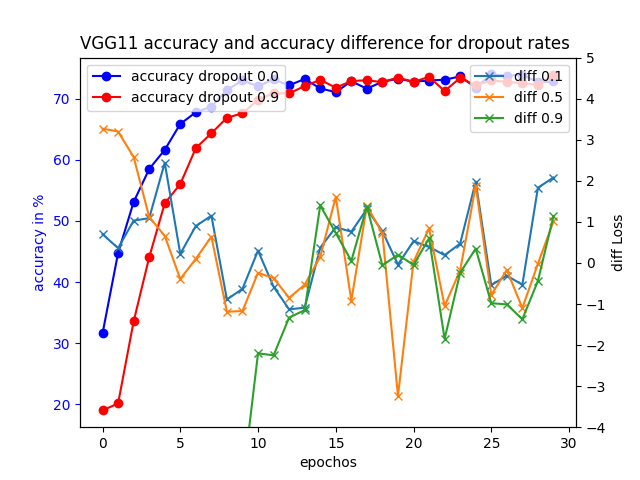
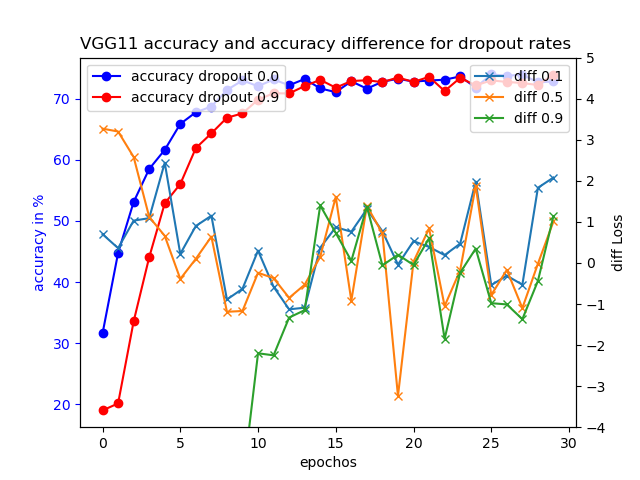
add 4_2 files in 4_1.py

Changed region(s): [[0.125, 0.0625, 0.9062, 0.125], [0.75, 0.9062, 0.7812, 0.9375], [0.5, 0.9062, 0.5312, 0.9375]]

diff --git a/ex04/4_1/plot.py b/ex04/4_1/plot.py
@@ -1,7 +1,9 @@
+from ex4_1 import VGG11
 import json
 import matplotlib.pyplot as plt
 import argparse
 import numpy as np
+import torch
 
 
 def plotdata(data:dict) -> None:
@@ -86,18 +88,17 @@ def plotbar(dataCPU:dict, dataGPU:dict, ) -> None:
     plt.show()
     plt.savefig("4_1_time_comp.png")
 
-
 def plotdropout(data:dict) -> None:
     # Create the main plot
     fig, ax1 = plt.subplots()
 
     # Plot the first set of data
-    ax1.plot(data["0.0"]['accTest'], 'bo-', label='accuracy dropout 0.0')
-    # ax1.plot(data["0.1"]['accTest'], 'bo-', label='accuracy dropout 0.1')
-    # ax1.plot(data["0.3"]['accTest'], 'bo-', label='accuracy dropout 0.3')
-    # ax1.plot(data["0.5"]['accTest'], 'bo-', label='accuracy dropout 0.5')
-    # ax1.plot(data["0.7"]['accTest'], 'bo-', label='accuracy dropout 0.7')
-    ax1.plot(data["0.9"]['accTest'], 'ro-', label='accuracy dropout 0.9')
+    ax1.plot(data["dropout_dropout_0.0"]['accTest'], 'bo-', label='accuracy dropout 0.0')
+    # ax1.plot(data["dropout_0.1"]['accTest'], 'bo-', label='accuracy dropout 0.1')
+    # ax1.plot(data["dropout_0.3"]['accTest'], 'bo-', label='accuracy dropout 0.3')
+    # ax1.plot(data["dropout_0.5"]['accTest'], 'bo-', label='accuracy dropout 0.5')
+    # ax1.plot(data["dropout_0.7"]['accTest'], 'bo-', label='accuracy dropout 0.7')
+    ax1.plot(data["dropout_0.9"]['accTest'], 'ro-', label='accuracy dropout 0.9')
 
     ax1.set_xlabel("epochos")
     ax1.set_ylabel("accuracy in %", color='b')
@@ -105,11 +106,11 @@ def plotdropout(data:dict) -> None:
 
     # Create a secondary y-axis sharing the same x-axis
     ax2 = ax1.twinx()
-    ax2.plot(np.array(data["0.1"]['accTest']) - np.array(data["0.0"]['accTest']), 'x-', label='diff 0.1')
-    # ax2.plot(np.array(data["0.3"]['accTest']) - np.array(data["0.0"]['accTest']), 'x-', label='diff 0.3')
-    ax2.plot(np.array(data["0.5"]['accTest']) - np.array(data["0.0"]['accTest']), 'x-', label='diff 0.5')
-    # ax2.plot(np.array(data["0.7"]['accTest']) - np.array(data["0.0"]['accTest']), 'x-', label='diff 0.7')
-    ax2.plot(np.array(data["0.9"]['accTest']) - np.array(data["0.0"]['accTest']), 'x-', label='diff 0.9')
+    ax2.plot(np.array(data["dropout_0.1"]['accTest']) - np.array(data["dropout_0.0"]['accTest']), 'x-', label='diff 0.1')
+    # ax2.plot(np.array(data["dropout_0.3"]['accTest']) - np.array(data["dropout_0.0"]['accTest']), 'x-', label='diff 0.3')
+    ax2.plot(np.array(data["dropout_0.5"]['accTest']) - np.array(data["dropout_0.0"]['accTest']), 'x-', label='diff 0.5')
+    # ax2.plot(np.array(data["dropout_0.7"]['accTest']) - np.array(data["dropout_0.0"]['accTest']), 'x-', label='diff 0.7')
+    ax2.plot(np.array(data["dropout_0.9"]['accTest']) - np.array(data["dropout_0.0"]['accTest']), 'x-', label='diff 0.9')
     ax2.set_ylabel('diff Loss')
     ax2.tick_params('y')
     ax2.set_ylim(-4, 5)
@@ -123,6 +124,38 @@ def plotdropout(data:dict) -> None:
     plt.savefig("4_1_diff_dropout.png")
 
 
+def plotWeightDecayAcc(data:dict) -> None:
+    # Plot the first set of data
+    plt.plot(data["wdecay_0.0"]['accTest'], 'x-', label='L2 reg 0.0')
+    plt.plot(data["wdecay_0.001"]['accTest'], 'x-', label='L2 reg 0.001')
+    plt.plot(data["wdecay_0.0001"]['accTest'], 'x-', label='L2 reg 0.0001')
+    plt.plot(data["wdecay_1e-05"]['accTest'], 'x-', label='L2 reg 0.00001')
+    plt.plot(data["wdecay_1e-06"]['accTest'], 'x-', label='L2 reg 0.000001')
+    plt.xlabel("epochs")
+    plt.ylabel("accuracy in %")
+    # Add legends
+    plt.legend()
+    # Show the plot
+    plt.title("VGG11 accuracy for different L2 regularization rates ")
+    plt.savefig("4_2_L2_regularization_acc.png")
+    plt.ylim(65, 75)
+    plt.savefig("4_2_L2_regularization_acc_zoonm.png")
+
+
+def plotWeightDecayHist(weight_list:list, titels:list) -> None:
+    fig, axs = plt.subplots(1, 5, figsize=(25, 5))
+    for i, (weights, title) in enumerate(zip(weight_list, titles)):
+        axs[i].hist(weights.flatten(), bins=30, color='blue', alpha=0.7)
+        axs[i].set_title(title)
+        axs[i].set_xlabel('epochs')
+        axs[i].set_ylabel('weight value')
+    plt.tight_layout()
+    # Show the plot
+    plt.title("VGG11 last layer histograms for different L2 regularization rates over epochs")
+    plt.legend()
+    plt.savefig("4_2_L2_reg_hist.png")
+
+
 if __name__ == "__main__":
     parser = argparse.ArgumentParser(description='PyTorch SVHN Example')
     
@@ -132,6 +165,8 @@ if __name__ == "__main__":
                         help='plot loss no dropout')
     parser.add_argument('--plot-dropout', action='store_true', default=False,
                         help='plot loss with dropout')
+    parser.add_argument('--plot-weight-decay', action='store_true', default=False,
+                        help='plot hist for weight decay')        
   
     args = parser.parse_args()
     use_cuda = not args.plot_bar
@@ -154,4 +189,28 @@ if __name__ == "__main__":
         plotdata(data=dataGPU)
     elif args.plot_dropout:
         plotdropout(data=dataGPU)
+    elif args.plot_weight_decay:
+        plotWeightDecayAcc(data=dataGPU)
+        # plotWeightDecayHist(data=dataGPU)
+
+        # File paths to your .pt files
+        model_files = [
+            'trained_VGG11_L2-0.0.pt',
+            'trained_VGG11_L2-0.001.pt',
+            'trained_VGG11_L2-0.0001.pt',
+            'trained_VGG11_L2-1e-05.pt',
+            'trained_VGG11_L2-1e-06.pt',
+        ]
+
+        # Titles for the subplots
+        titles = ['L2 reg 0.0', 'L2 reg 0.001', 'L2 reg 1e-04', 'L2 reg 1e-05', 'L2 reg 1e-06']
+
+        # Load models and extract last layer weights
+        model = VGG11()
+        weight_list = []
+        for filepath in model_files:
+            model.state_dict(torch.load(filepath), 'weights')
+            
+            for param_tensor in model.state_dict():
+                print(param_tensor, "\t", model.state_dict()[param_tensor].size())
 

diff --git a/ex04/4_1/4_1.py b/ex04/4_1/4_1.py
@@ -108,8 +108,6 @@ def main():
                         help='learning rate (default: 0.0001)')
     parser.add_argument('--dropout_p', type=float, default=0.0,
                         help='dropout_p (default: 0.0)')
-    parser.add_argument('--dropout_test',action='store_true', default=False,
-                        help='enable dropout probability test')
     parser.add_argument('--L2_reg', type=float, default=None,
                         help='L2_reg (default: None)')
     parser.add_argument('--no-cuda', action='store_true', default=False,
@@ -137,15 +135,9 @@ def main():
         with open("GPUdata.json", 'r') as json_file:
             data = json.load(json_file)
 
-    test_transforms = transforms.Compose([transforms.ToTensor()])
     train_transforms = [transforms.ToTensor()]
     train_transforms = transforms.Compose(train_transforms)
 
-    dataset_train = datasets.SVHN('../../data', split='train', download=True,
-                       transform=train_transforms)
-    dataset_test = datasets.SVHN('../../data', split='test', download=True,
-                       transform=test_transforms)
-    
     transform=transforms.Compose([
         transforms.ToTensor()
         ])
@@ -158,7 +150,7 @@ def main():
 
     model = VGG11(dropout_p=args.dropout_p).to(device)
     
-    optimizer = optim.Adam(model.parameters(), lr=args.lr)
+    optimizer = optim.Adam(model.parameters(), lr=args.lr, weight_decay=args.L2_reg)
   
     timeDevice = []
     trainLoss = []
@@ -184,8 +176,12 @@ def main():
         'testLoss': testLoss,
         'accTest': accTest
     }
+
+    if (args.L2_reg is not None):
     
-    data[str(args.dropout_p)] = dataDict
+        data[f'wdecay_{args.L2_reg}'] = dataDict
+    else:
+        data[f'dropout_{args.dropout_p}'] = dataDict
 
     if use_cuda:
         with open("GPUdata.json", 'w') as json_file:
